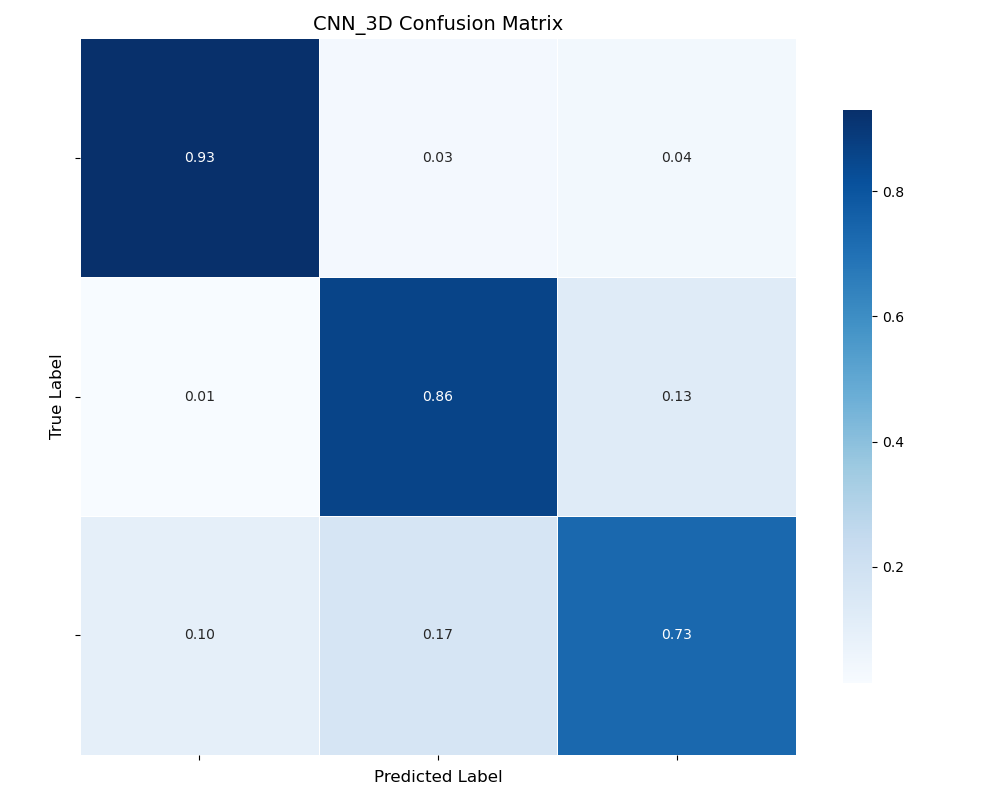
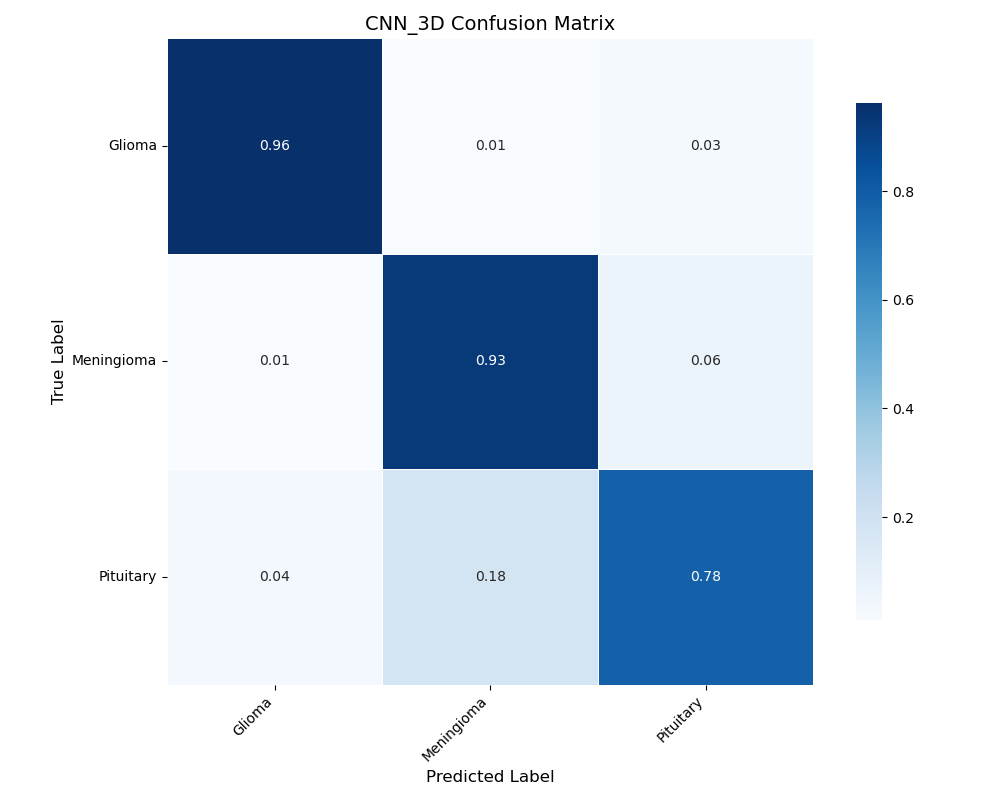
Fixed an issue with confusion matrix

diff --git a/utils/confusion_matrix.py b/utils/confusion_matrix.py
@@ -4,10 +4,11 @@ from typing import Sequence, Tuple
 import numpy as np
 import torch
 from matplotlib import pyplot as plt
-from data.image_loader import ImageLoader
 from torch import nn
 from torch.utils.data import DataLoader, Subset
 import seaborn as sns
+from sklearn.metrics import confusion_matrix as sklearn_confusion_matrix
+from data.image_loader import ImageLoader
 
 
 def generate_confusion_data(
@@ -18,17 +19,15 @@ def generate_confusion_data(
     batch_size = 32
     cuda = use_cuda and torch.cuda.is_available()
     dataloader_args = {"num_workers": 1, "pin_memory": True} if cuda else {}
-    loader = DataLoader(dataset, batch_size=batch_size, shuffle=True, **dataloader_args)
-
-    preds = np.zeros(len(dataset)).astype(np.int32)
-    targets = np.zeros(len(dataset)).astype(np.int32)
-    label_to_idx = dataset.get_classes()
-    class_labels = [""] * len(label_to_idx)
-
-    model.eval()
+    loader = DataLoader(dataset, batch_size=batch_size, shuffle=False, **dataloader_args)
 
     preds = []
     targets = []
+
+    class_dict = dataset.get_classes()  # Assuming this returns a dict like {"glioma": 0, ...}
+    class_labels = [label for label, _ in sorted(class_dict.items(), key=lambda x: x[1])]
+
+    model.eval()
     with torch.no_grad():
         for inputs, labels in loader:
             if cuda:
@@ -37,28 +36,19 @@ def generate_confusion_data(
             predictions = torch.argmax(outputs, dim=1)
             preds.extend(predictions.tolist())
             targets.extend(labels.tolist())
-
-    targets = torch.tensor(targets)
-    preds = torch.tensor(preds)
     model.train()
 
-    return targets.cpu().numpy(), preds.cpu().numpy(), class_labels
+    return np.array(targets), np.array(preds), class_labels
 
 
 def generate_confusion_matrix(
     targets: np.ndarray, preds: np.ndarray, num_classes: int, normalize=True
 ) -> np.ndarray:
-    confusion_matrix = np.zeros((num_classes, num_classes))
-
-    for target, prediction in zip(targets, preds):
-        confusion_matrix[target, prediction] += 1
-
+    cm = sklearn_confusion_matrix(targets, preds, labels=list(range(num_classes)))
     if normalize:
-        row_sums = confusion_matrix.sum(axis=1, keepdims=True)
-        row_sums[row_sums == 0] = 1
-        confusion_matrix = confusion_matrix / row_sums
-    
-    return confusion_matrix
+        cm = cm.astype('float') / cm.sum(axis=1, keepdims=True)
+        cm[np.isnan(cm)] = 0  # Avoid NaNs from division by zero
+    return cm
 
 
 def plot_confusion_matrix(
@@ -83,8 +73,10 @@ def plot_confusion_matrix(
     plt.xticks(rotation=45, ha='right')
     plt.yticks(rotation=0)
     plt.tight_layout()
+    os.makedirs(path, exist_ok=True)
     plt.savefig(os.path.join(path, f"{model_name}_confusion_matrix.png"))
     plt.show()
+
 
 def generate_and_plot_confusion_matrix(
     model: nn.Module, dataset: ImageLoader, path: str, use_cuda: bool = False
@@ -92,128 +84,5 @@ def generate_and_plot_confusion_matrix(
     targets, predictions, class_labels = generate_confusion_data(
         model, dataset, use_cuda=use_cuda
     )
-
-    confusion_matrix = generate_confusion_matrix(
-        np.array(targets, dtype=np.int32),
-        np.array(predictions, np.int32),
-        len(class_labels),
-    )
-
-    plot_confusion_matrix(confusion_matrix, class_labels, model.__class__.__name__, path)
-
-
-def get_pred_images_for_target(
-    model: nn.Module,
-    dataset: ImageLoader,
-    predicted_class: int,
-    target_class: int,
-    use_cuda: bool = False,
-) -> Sequence[str]:
-    model.eval()
-    dataset_list = dataset.dataset
-    indices = []
-    image_paths = []
-    for i, (image_path, class_label) in enumerate(dataset_list):
-        if class_label == target_class:
-            indices.append(i)
-            image_paths.append(image_path)
-    subset = Subset(dataset, indices)
-    dataloader_args = {"num_workers": 1, "pin_memory": True} if use_cuda else {}
-    loader = DataLoader(subset, batch_size=32, shuffle=False, **dataloader_args)
-    preds = []
-    for i, (inp, _) in enumerate(loader):
-        if use_cuda:
-            inp = inp.cuda()
-        logits = model(inp)
-        p = torch.argmax(logits, dim=1)
-        preds.append(p)
-    predictions = torch.cat(preds, dim=0).cpu().tolist()
-    valid_image_paths = [
-        image_paths[i] for i, p in enumerate(predictions) if p == predicted_class
-    ]
-    model.train()
-    return valid_image_paths
-
-
-def generate_accuracy_data(
-    model: nn.Module,
-    dataset: ImageLoader,
-    num_attributes: int,
-    use_cuda: bool = False,
-) -> Tuple[Sequence[int], Sequence[int], Sequence[str]]:
-    batch_size = 32
-    cuda = use_cuda and torch.cuda.is_available()
-    dataloader_args = {"num_workers": 1, "pin_memory": True} if cuda else {}
-    loader = DataLoader(dataset, batch_size=batch_size, shuffle=True, **dataloader_args)
-
-    preds = np.zeros((len(dataset), num_attributes)).astype(np.int32)
-    targets = np.zeros((len(dataset), num_attributes)).astype(np.int32)
-
-    model.eval()
-
-    preds = []
-    targets = []
-    with torch.no_grad():
-        for inputs, labels in loader:
-            if cuda:
-                inputs, labels = inputs.cuda(), labels.cuda()
-            outputs = model(inputs)
-            predictions = torch.round(torch.sigmoid(outputs))
-            preds.extend(predictions.numpy())
-            targets.extend(labels.numpy())
-    
-    preds = torch.tensor(preds)
-    targets = torch.tensor(targets)
-    model.train()
-
-    return targets.cpu().numpy(), preds.cpu().numpy()
-
-
-def generate_accuracy_table(
-    targets: np.ndarray, preds: np.ndarray, num_attributes: int
-) -> np.ndarray:
-    accuracy_table = np.zeros(num_attributes)
-    correct = np.sum(targets == preds, axis=0)
-    total = targets.shape[0]
-    accuracy_table = correct / total
-
-    return accuracy_table
-
-
-def plot_accuracy_table(accuracy_table: np.ndarray, attribute_labels: Sequence[str]) -> None:
-    plt.figure(figsize=(10, 2))
-    sns.heatmap(
-        accuracy_table[np.newaxis, :],
-        annot=True,
-        fmt=".2f",
-        cmap="Greens",
-        xticklabels=attribute_labels,
-        yticklabels=["Accuracy"],
-        cbar=False,
-        linewidths=0.3
-    )
-
-    plt.title("Attribute-wise Accuracy", fontsize=14)
-    plt.xticks(rotation=45, ha="right")
-    plt.tight_layout()
-    plt.show()
-
-
-def generate_and_plot_accuracy_table(
-    model: nn.Module, 
-    dataset: ImageLoader, 
-    num_attributes = int, 
-    attribute_labels = Sequence[str],
-    use_cuda: bool = False
-) -> None:
-    targets, predictions = generate_accuracy_data(
-        model, dataset, num_attributes, use_cuda=use_cuda
-    )
-
-    accuracy_table = generate_accuracy_table(
-        np.array(targets, dtype=np.int32),
-        np.array(predictions, np.int32),
-        num_attributes
-    )
-
-    plot_accuracy_table(accuracy_table, attribute_labels)
+    cm = generate_confusion_matrix(targets, predictions, len(class_labels))
+    plot_confusion_matrix(cm, class_labels, model.__class__.__name__, path)

diff --git a/src/models/ResNet/model.py b/src/models/ResNet/model.py
@@ -14,10 +14,10 @@ class MyResNet(nn.Module):
 
         self.fc_layers = nn.Sequential(
             nn.Flatten(),
-            nn.Linear(512, 100),
+            nn.Linear(512, 128),
             nn.ReLU(),
             nn.Dropout(0.5),
-            nn.Linear(100, num_classes)
+            nn.Linear(128, num_classes)
         )
 
         self.loss_criterion = nn.CrossEntropyLoss(reduction='mean')
